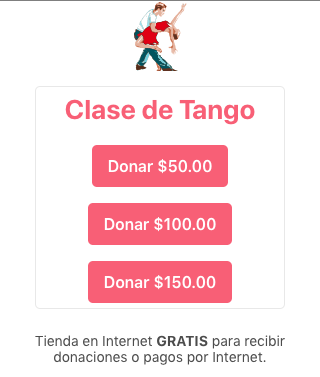
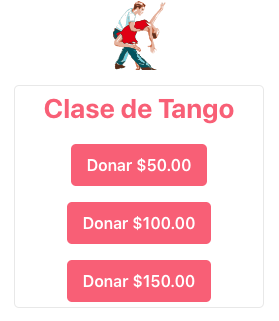
adds content

Changed region(s): [[0.1147, 0.2492, 0.8889, 0.9657], [0.4014, 0.0, 0.6022, 0.2181]]

diff --git a/index.html b/index.html
@@ -8,6 +8,7 @@
     <meta property="og:title"       content="Tienda en Internet GRATIS para recibir donaciones" />
     <meta property="og:description" content="Si quieres instalar tu Tienda en Internet, envíanos un mensaje privado en Facebook a: https://www.facebook.com/tangohoy1" />
     <meta property="og:image"       content="https://mutalis.github.io/tango/images/promo.png" />
+    <meta property="og:image:alt"   content="List of prices for a product" />
 
     <meta name="description" content="Tienda en Internet GRATIS" />
     <meta name="keywords"
@@ -29,6 +30,12 @@
         <div class="logo"></div>
       </header>
       <main>
+        <iframe
+          src="https://www.youtube.com/embed/F_jhqwLSBlk?list=RDF_jhqwLSBlk"
+          frameborder="0"
+          allow="accelerometer; autoplay; encrypted-media; gyroscope; picture-in-picture"
+          allowfullscreen>
+        </iframe>
         <section class="productBox">
           <h1>Clase de Tango</h1>
           <button data-sku-id="sku_HFaygBbRVHVoD0">Donar $50.00</button>

diff --git a/404.html b/404.html
@@ -1,0 +1,29 @@
+<!DOCTYPE html>
+<html lang="en">
+  <head>
+    <meta charset="utf-8" />
+    <meta name="viewport" content="width=device-width, initial-scale=1.0">
+
+    <meta name="description" content="Tienda en Internet GRATIS" />
+    <meta name="keywords"
+      content="tienda en internet, online store, e-commerce"
+    />
+
+    <title>Tienda Tango</title>
+
+    <link rel="icon" href="favicon.ico" type="image/x-icon" />
+    <link rel="stylesheet" href="css/normalize.css" />
+    <link rel="stylesheet" href="css/global.css" />
+  </head>
+
+  <body>
+    <div class="container">
+      <header>
+        <div class="logo"></div>
+      </header>
+      <main>
+          <h1>La página no existe</h1>
+      </main>
+    </div>
+  </body>
+</html>
